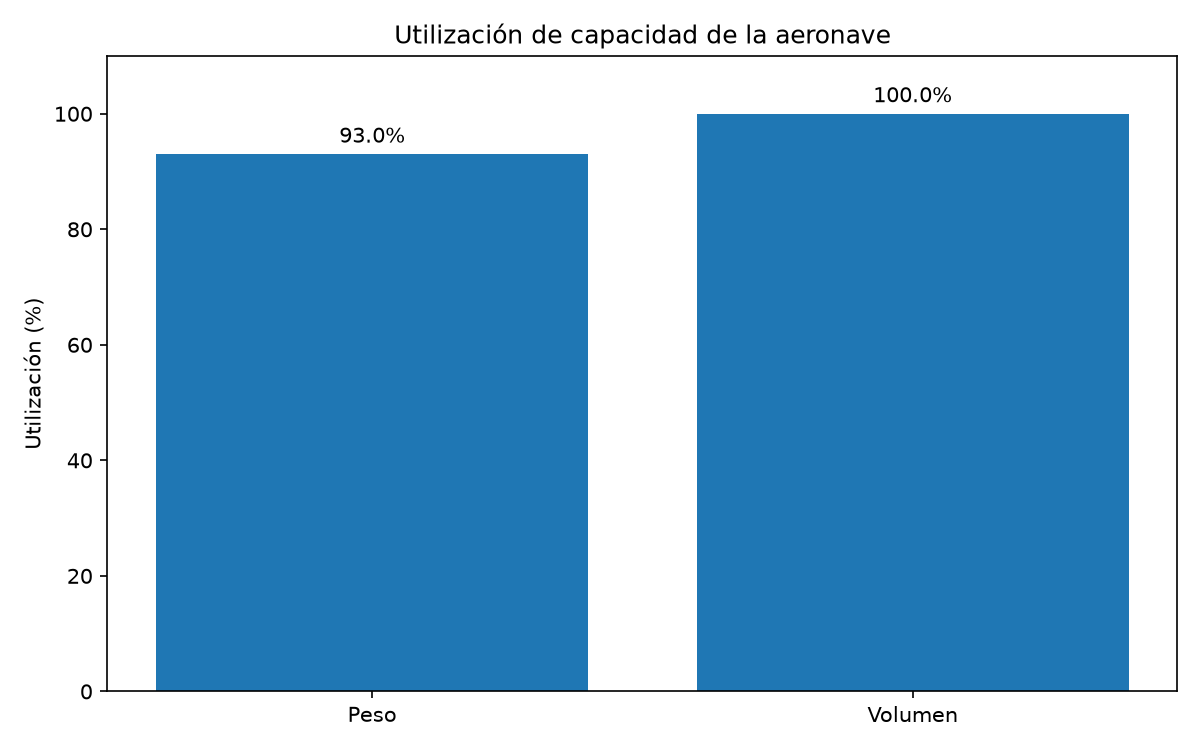
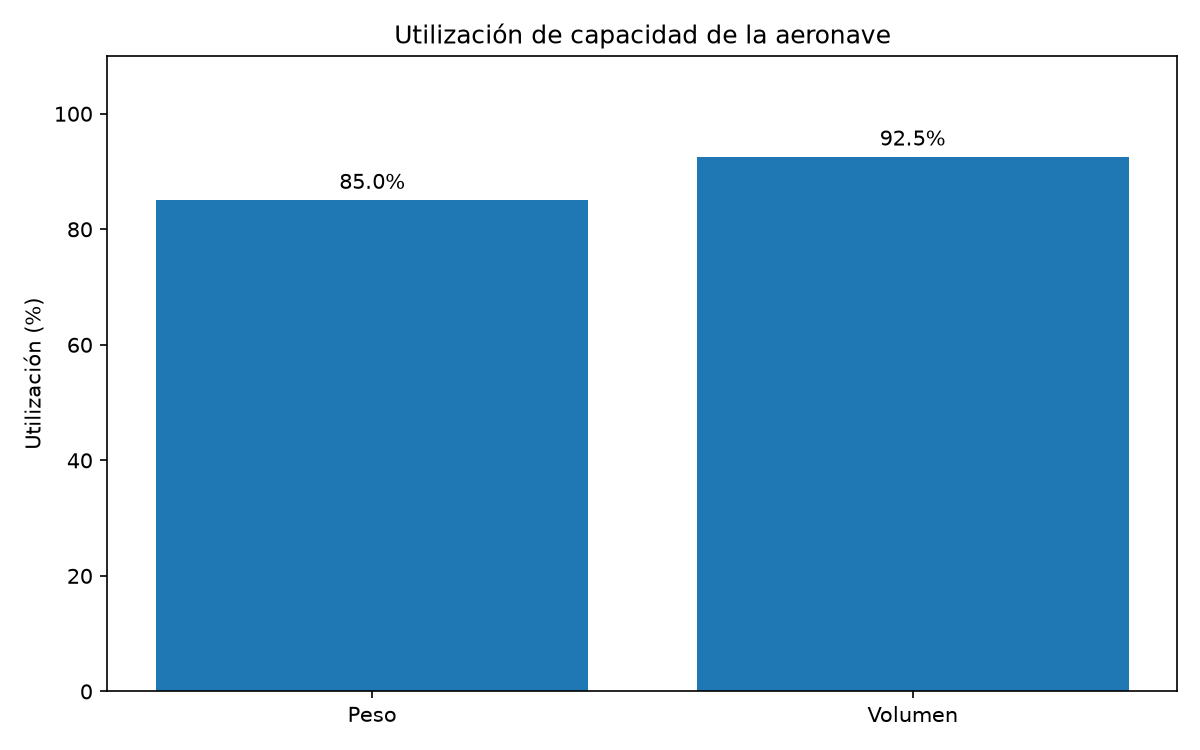
feat: exponer asignacion de cargas por compartimiento

Changed region(s): [[0.1233, 0.1533, 0.4933, 0.276], [0.555, 0.1227, 0.9558, 0.2147]]

diff --git a/tests/test_exporter.py b/tests/test_exporter.py
@@ -23,6 +23,10 @@ def create_result() -> CargoOptimizationResult:
             "volume_m3": [2.0, 3.0],
             "revenue_usd": [5000, 7000],
             "priority": [3, 2],
+            "compartment_id": [
+                "AFT",
+                "FORWARD",
+            ],
         }
     )
 
@@ -36,8 +40,8 @@ def create_result() -> CargoOptimizationResult:
         wall_time_ms=10,
         iterations=0,
         nodes=1,
-        variable_count=2,
-        constraint_count=3,
+        variable_count=9,
+        constraint_count=10,
     )
 
 
@@ -66,13 +70,22 @@ def test_export_selected_cargo_csv(tmp_path: Path) -> None:
 
     assert result_path.exists()
     assert len(exported_data) == 2
+    assert "compartment_id" in exported_data.columns
+
     assert list(exported_data["cargo_id"]) == [
         "C001",
         "C002",
     ]
 
+    assert list(exported_data["compartment_id"]) == [
+        "AFT",
+        "FORWARD",
+    ]
 
-def test_export_solution_summary_json(tmp_path: Path) -> None:
+
+def test_export_solution_summary_json(
+    tmp_path: Path,
+) -> None:
     output_path = tmp_path / "summary.json"
 
     result_path = export_solution_summary_json(
@@ -89,8 +102,6 @@ def test_export_solution_summary_json(tmp_path: Path) -> None:
     assert exported_summary["aircraft_id"] == "TEST-001"
     assert exported_summary["selected_items"] == 2
     assert exported_summary["total_revenue_usd"] == 12000
-    assert exported_summary["weight_utilization_pct"] == 50.0
-    assert exported_summary["volume_utilization_pct"] == 50.0
 
     solver_metrics = exported_summary["solver_metrics"]
 
@@ -98,5 +109,18 @@ def test_export_solution_summary_json(tmp_path: Path) -> None:
     assert solver_metrics["wall_time_ms"] == 10
     assert solver_metrics["iterations"] == 0
     assert solver_metrics["nodes"] == 1
-    assert solver_metrics["variable_count"] == 2
-    assert solver_metrics["constraint_count"] == 3
+    assert solver_metrics["variable_count"] == 9
+    assert solver_metrics["constraint_count"] == 10
+
+    cargo_assignments = exported_summary["cargo_assignments"]
+
+    assert cargo_assignments == [
+        {
+            "cargo_id": "C001",
+            "compartment_id": "AFT",
+        },
+        {
+            "cargo_id": "C002",
+            "compartment_id": "FORWARD",
+        },
+    ]

diff --git a/tests/test_solver.py b/tests/test_solver.py
@@ -84,6 +84,50 @@ def test_solver_maximizes_revenue() -> None:
     }
 
 
+def test_solver_exposes_compartment_assignment() -> None:
+    cargo_data = create_cargo_data()
+    config = create_aircraft_config()
+
+    model = build_cargo_model(
+        cargo_data,
+        config,
+    )
+
+    result = solve_cargo_model(
+        model,
+        cargo_data,
+    )
+
+    assert "compartment_id" in result.selected_cargo.columns
+    assert result.selected_cargo["compartment_id"].notna().all()
+
+    valid_compartments = {
+        compartment["compartment_id"] for compartment in config["compartments"]
+    }
+
+    assert set(result.selected_cargo["compartment_id"]).issubset(valid_compartments)
+
+
+def test_each_selected_cargo_has_one_compartment() -> None:
+    cargo_data = create_cargo_data()
+
+    model = build_cargo_model(
+        cargo_data,
+        create_aircraft_config(),
+    )
+
+    result = solve_cargo_model(
+        model,
+        cargo_data,
+    )
+
+    assignment_counts = result.selected_cargo.groupby("cargo_id")[
+        "compartment_id"
+    ].count()
+
+    assert assignment_counts.eq(1).all()
+
+
 def test_solver_rejects_infeasible_model() -> None:
     cargo_data = create_cargo_data()
 
@@ -123,7 +167,7 @@ def test_solver_returns_technical_metrics() -> None:
     assert result.iterations >= 0
     assert result.nodes >= 0
     assert result.variable_count == 9
-    assert result.constraint_count == 8
+    assert result.constraint_count == 10
 
 
 def test_solver_objective_matches_total_revenue() -> None:

diff --git a/tests/test_model.py b/tests/test_model.py
@@ -77,7 +77,7 @@ def test_build_cargo_model_creates_expected_constraints() -> None:
         create_aircraft_config(),
     )
 
-    assert model.solver.NumConstraints() == 8
+    assert model.solver.NumConstraints() == 10
 
 
 def test_build_cargo_model_uses_binary_variables() -> None:
@@ -152,3 +152,35 @@ def test_compartment_weight_capacities_are_respected() -> None:
         )
 
         assert assigned_weight <= max_weight
+
+
+def test_compartment_volume_capacities_are_respected() -> None:
+    cargo_data = create_cargo_data()
+    config = create_aircraft_config()
+
+    model = build_cargo_model(
+        cargo_data,
+        config,
+    )
+
+    status = model.solver.Solve()
+
+    assert status == pywraplp.Solver.OPTIMAL
+
+    cargo_volumes = cargo_data.set_index("cargo_id")["volume_m3"].to_dict()
+
+    compartments = config["compartments"]
+
+    assert isinstance(compartments, list)
+
+    for compartment in compartments:
+        compartment_id = compartment["compartment_id"]
+        max_volume = compartment["max_volume_m3"]
+
+        assigned_volume = sum(
+            cargo_volumes[cargo_id]
+            * model.assignment_variables[(cargo_id, compartment_id)].solution_value()
+            for cargo_id in cargo_volumes
+        )
+
+        assert assigned_volume <= max_volume

diff --git a/src/airline_cargo_optimization/solver.py b/src/airline_cargo_optimization/solver.py
@@ -52,7 +52,32 @@ def solve_cargo_model(
         if variable.solution_value() > 0.5
     }
 
+    compartment_assignments = {
+        cargo_id: compartment_id
+        for (
+            cargo_id,
+            compartment_id,
+        ), variable in model.assignment_variables.items()
+        if variable.solution_value() > 0.5
+    }
+
+    missing_assignments = selected_ids.difference(compartment_assignments)
+
+    if missing_assignments:
+        raise RuntimeError(
+            "Existen cargas seleccionadas sin compartimiento asignado: "
+            f"{sorted(missing_assignments)}"
+        )
+
     selected_cargo = cargo_data[cargo_data["cargo_id"].isin(selected_ids)].copy()
+
+    selected_cargo["compartment_id"] = selected_cargo["cargo_id"].map(
+        compartment_assignments
+    )
+
+    selected_cargo = selected_cargo.sort_values(
+        by=["compartment_id", "cargo_id"],
+    ).reset_index(drop=True)
 
     return CargoOptimizationResult(
         status=status,

diff --git a/src/airline_cargo_optimization/exporter.py b/src/airline_cargo_optimization/exporter.py
@@ -31,6 +31,10 @@ def export_solution_summary_json(
     path = Path(output_path)
     path.parent.mkdir(parents=True, exist_ok=True)
 
+    cargo_assignments = result.selected_cargo[["cargo_id", "compartment_id"]].to_dict(
+        orient="records"
+    )
+
     payload: dict[str, Any] = {
         **asdict(summary),
         "solver_metrics": {
@@ -41,6 +45,7 @@ def export_solution_summary_json(
             "variable_count": result.variable_count,
             "constraint_count": result.constraint_count,
         },
+        "cargo_assignments": cargo_assignments,
     }
 
     with path.open("w", encoding="utf-8") as file:

diff --git a/src/airline_cargo_optimization/model.py b/src/airline_cargo_optimization/model.py
@@ -91,6 +91,21 @@ def build_cargo_model(
             f"max_weight_{compartment_id}",
         )
 
+        solver.Add(
+            sum(
+                row.volume_m3
+                * assignment_variables[
+                    (
+                        row.cargo_id,
+                        compartment_id,
+                    )
+                ]
+                for row in cargo_data.itertuples(index=False)
+            )
+            <= compartment["max_volume_m3"],
+            f"max_volume_{compartment_id}",
+        )
+
     high_priority_cargo = cargo_data[cargo_data["priority"] == 3]
 
     solver.Add(
